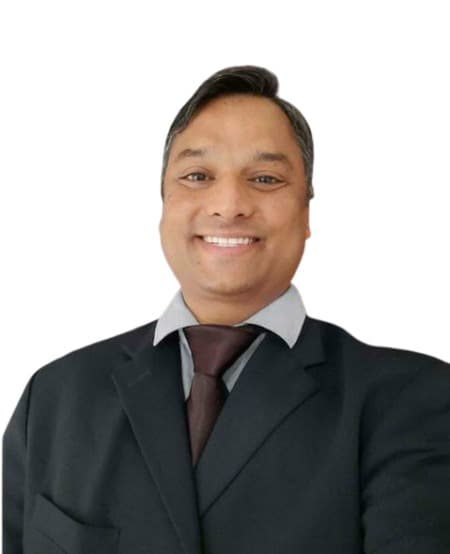
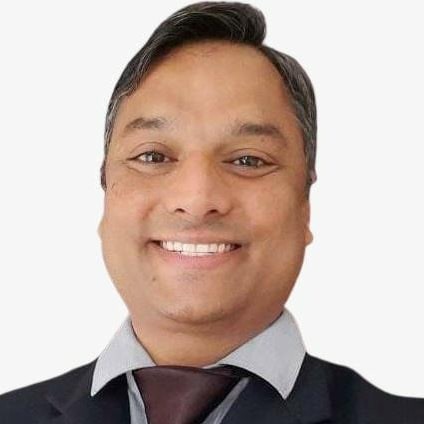
Replace founder portrait with new headshot
Square crop at native 424px - deliberately not upscaled, as the source
is only 425x424. White cut-out background flattened onto the paper
colour so it blends into the section instead of reading as a slab.
Portrait frame is now a 1:1 aspect box with a hairline inset border.

diff --git a/css/style.css b/css/style.css
@@ -482,10 +482,15 @@ a{ color:inherit; }
 /* ── Founders ────────────────────────────────────────── */
 .founders{ padding:clamp(5rem,12vh,10rem) 0; }
 .founders__inner{ display:grid; grid-template-columns:.8fr 1.2fr; gap:clamp(2rem,6vw,6rem); align-items:center; }
+.founders__img{ position:relative; max-width:424px; }
 .founders__img img{
-  width:100%; border-radius:2px;
+  width:100%; aspect-ratio:1/1; object-fit:cover; border-radius:2px;
   filter:saturate(1.02) contrast(1.02);
   background:var(--paper-2);
+}
+.founders__img::after{
+  content:''; position:absolute; inset:0; pointer-events:none; border-radius:2px;
+  box-shadow:inset 0 0 0 1px var(--rule);
 }
 .founders__text p{ font-size:1.02rem; color:rgba(10,20,32,.7); max-width:52ch; }
 .founders__text .h-display{ margin-bottom:1.8rem; }
